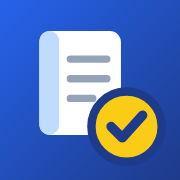
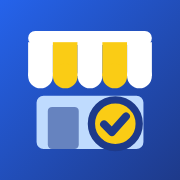
Novo emblema: toldo da mercearia com moeda paga

diff --git a/fiadofacil/funcoes.php b/fiadofacil/funcoes.php
@@ -63,19 +63,24 @@ function icone($nome, $classe = "") {
     ];
     return '<svg class="icone ' . $classe . '" viewBox="0 0 24 24" aria-hidden="true">' . ($desenhos[$nome] ?? '') . '</svg>';
 }
-// Emblema do FiadoFacil (caderninho + moeda com "pago"). Cada chamada usa um id proprio para o degrade.
+// Emblema do FiadoFacil: toldo de mercearia com a moeda "paga". Cada chamada usa um id proprio para o degrade.
 function logo($tamanho = 32, $classe = "") {
     static $contador = 0;
     $contador++;
     $id = 'logo-degrade-' . $contador;
     return '<svg class="logo ' . $classe . '" width="' . $tamanho . '" height="' . $tamanho . '" viewBox="0 0 64 64" aria-hidden="true">'
         . '<defs><linearGradient id="' . $id . '" x1="0" y1="0" x2="1" y2="1"><stop offset="0" stop-color="#2563eb"/><stop offset="1" stop-color="#1e3a8a"/></linearGradient></defs>'
-        . '<rect width="64" height="64" rx="16" fill="url(#' . $id . ')"/>'
-        . '<rect x="14" y="11" width="29" height="37" rx="4" fill="#fff"/>'
-        . '<rect x="14" y="11" width="7" height="37" rx="3.5" fill="#bfdbfe"/>'
-        . '<path d="M25 21h13M25 28h13M25 35h8" stroke="#94a3b8" stroke-width="2.6" stroke-linecap="round"/>'
-        . '<circle cx="45" cy="45" r="12.5" fill="#facc15" stroke="#1e3a8a" stroke-width="3"/>'
-        . '<path d="m39.5 45 4 4 7.2-8" fill="none" stroke="#1e3a8a" stroke-width="3.4" stroke-linecap="round" stroke-linejoin="round"/>'
+        . '<rect width="64" height="64" rx="15" fill="url(#' . $id . ')"/>'
+        . '<rect x="10" y="11" width="44" height="5" rx="2.5" fill="#fff"/>'
+        . '<rect x="10" y="15" width="8.8" height="12" fill="#fff"/><circle cx="14.4" cy="27" r="4.4" fill="#fff"/>'
+        . '<rect x="18.8" y="15" width="8.8" height="12" fill="#facc15"/><circle cx="23.2" cy="27" r="4.4" fill="#facc15"/>'
+        . '<rect x="27.6" y="15" width="8.8" height="12" fill="#fff"/><circle cx="32" cy="27" r="4.4" fill="#fff"/>'
+        . '<rect x="36.4" y="15" width="8.8" height="12" fill="#facc15"/><circle cx="40.8" cy="27" r="4.4" fill="#facc15"/>'
+        . '<rect x="45.2" y="15" width="8.8" height="12" fill="#fff"/><circle cx="49.6" cy="27" r="4.4" fill="#fff"/>'
+        . '<rect x="13" y="34" width="38" height="19" rx="2.5" fill="#bfdbfe"/>'
+        . '<rect x="17" y="38" width="11" height="15" rx="1.5" fill="#1e3a8a" opacity=".55"/>'
+        . '<circle cx="41" cy="44" r="8.5" fill="#facc15" stroke="#1e3a8a" stroke-width="2.6"/>'
+        . '<path d="m37 44.2 2.8 2.8 5-5.6" fill="none" stroke="#1e3a8a" stroke-width="2.8" stroke-linecap="round" stroke-linejoin="round"/>'
         . '</svg>';
 }
 // Barra que mostra quanto do limite de credito ja foi usado (verde ate 50%, amarelo ate 80%, vermelho acima)

diff --git a/fiadofacil/cabecalho.php b/fiadofacil/cabecalho.php
@@ -43,9 +43,9 @@ $nomes_perfil = ['admin' => 'Administrador', 'comum' => 'Usuário comum', 'clien
 <meta name="mobile-web-app-capable" content="yes">
 <meta name="apple-mobile-web-app-title" content="FiadoFácil">
 <link rel="manifest" href="manifest.json">
-<link rel="icon" type="image/svg+xml" href="img/logo.svg">
-<link rel="alternate icon" type="image/png" href="img/icone-192.png">
-<link rel="apple-touch-icon" href="img/icone-180.png">
+<link rel="icon" type="image/svg+xml" href="img/logo.svg?v=2">
+<link rel="alternate icon" type="image/png" href="img/icone-192.png?v=2">
+<link rel="apple-touch-icon" href="img/icone-180.png?v=2">
 <link rel="preconnect" href="https://fonts.googleapis.com">
 <link rel="preconnect" href="https://fonts.gstatic.com" crossorigin>
 <link rel="stylesheet" href="https://fonts.googleapis.com/css2?family=Inter:wght@400;500;600;700<?php if (!$esta_logado) echo '&family=Baloo+2:wght@800'; ?>&display=swap">

diff --git a/fiadofacil/index.php b/fiadofacil/index.php
@@ -27,9 +27,9 @@ if (isset($_SESSION['usuario_id'])) {
 </script>
 <meta name="theme-color" content="#1e3a8a">
 <link rel="manifest" href="manifest.json">
-<link rel="icon" type="image/svg+xml" href="img/logo.svg">
-<link rel="alternate icon" type="image/png" href="img/icone-192.png">
-<link rel="apple-touch-icon" href="img/icone-180.png">
+<link rel="icon" type="image/svg+xml" href="img/logo.svg?v=2">
+<link rel="alternate icon" type="image/png" href="img/icone-192.png?v=2">
+<link rel="apple-touch-icon" href="img/icone-180.png?v=2">
 <link rel="preconnect" href="https://fonts.googleapis.com">
 <link rel="preconnect" href="https://fonts.gstatic.com" crossorigin>
 <link rel="stylesheet" href="https://fonts.googleapis.com/css2?family=Inter:wght@400;500;600;700;800&display=swap">
